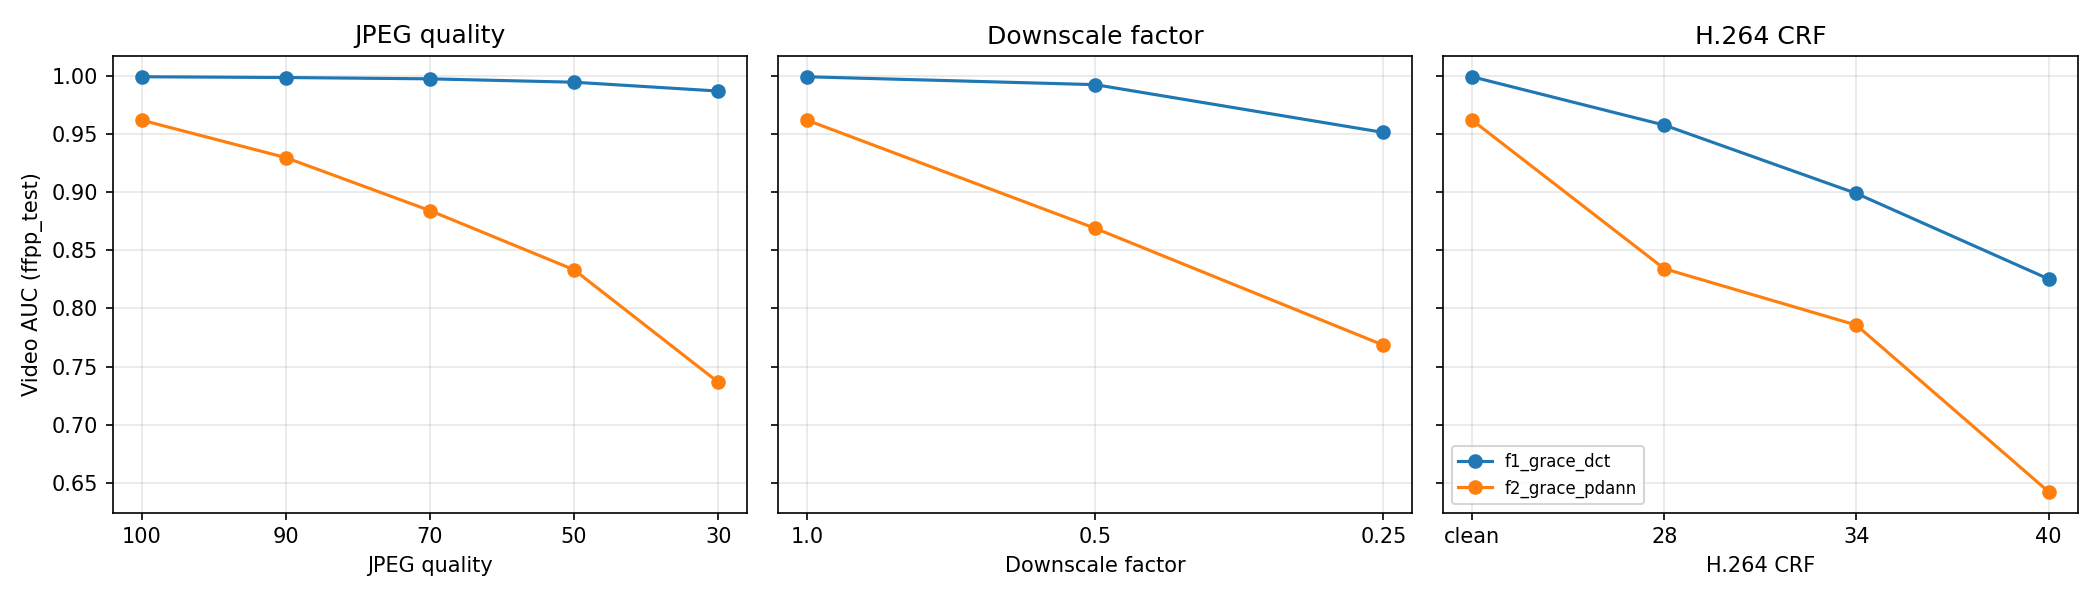
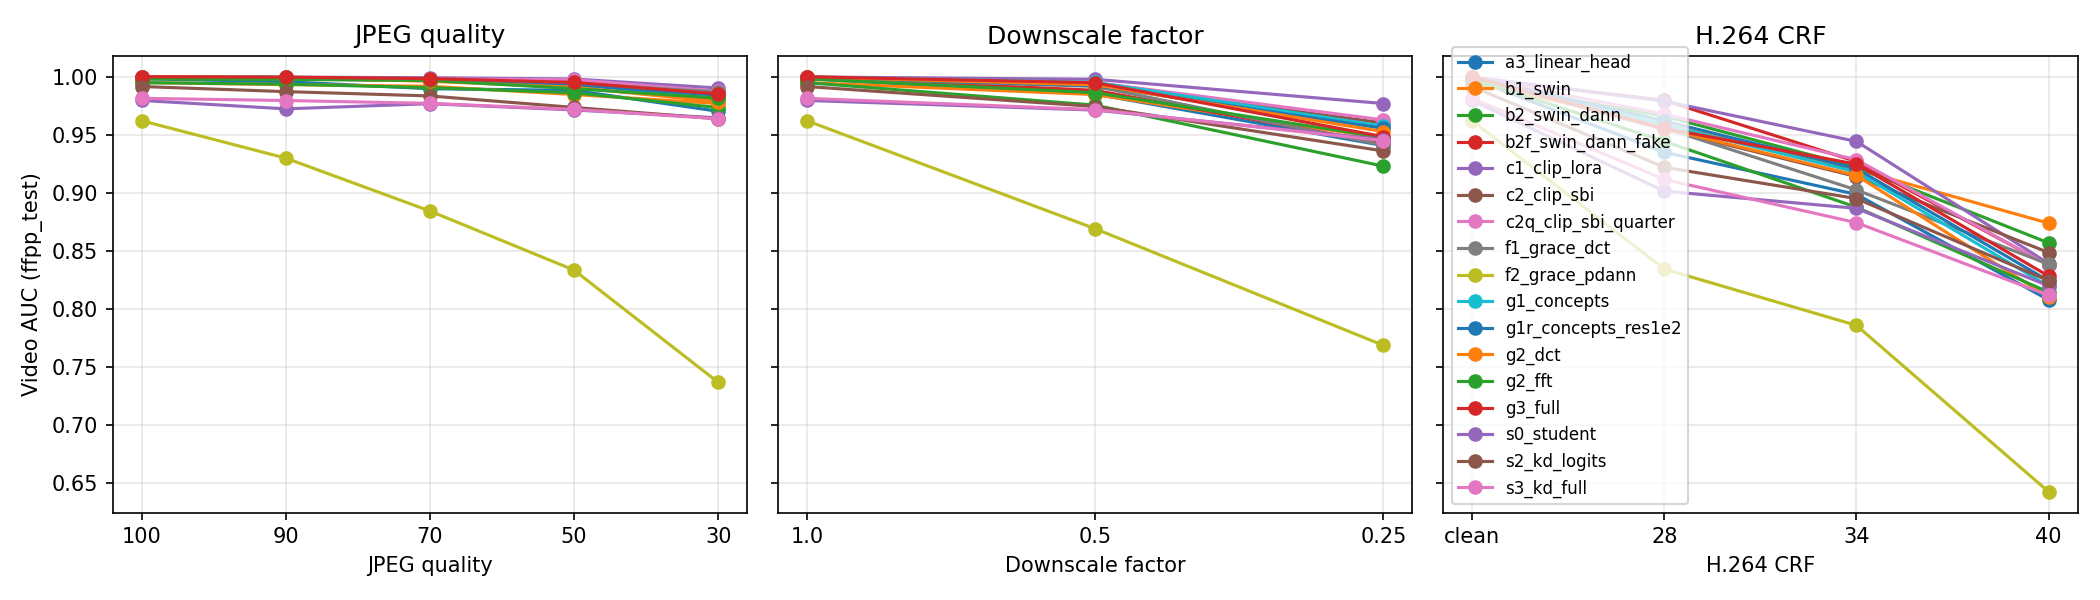
Final evaluation of all models (570 rows) + robustness figures; STATUS

diff --git a/STATUS.md b/STATUS.md
@@ -3,7 +3,7 @@
 ## Currently running
 
 - Queue runner: `scripts/start_queue.ps1` (detached; restart with `powershell -ExecutionPolicy Bypass -File scripts/start_queue.ps1`). State: `runs/_queue/state.json`, logs: `runs/_queue/<job>.log`, heartbeat: `runs/_queue/heartbeat.txt`.
-- GPU job: `final_eval_all` (started 02:31), then app check (r2), app check, final evaluation of all models, tables, summary, release; agreement, benchmark, calibration, explanations, final seeds 1/2), then teacher cache + students S0/S2/S3 from the final teacher, ONNX export, benchmark, calibration, explanations, app check, final eval + tables; then fillers (see queue.yaml).
+- GPU job: `app_check_r2` (started 05:26), then app check, final evaluation of all models, tables, summary, release; agreement, benchmark, calibration, explanations, final seeds 1/2), then teacher cache + students S0/S2/S3 from the final teacher, ONNX export, benchmark, calibration, explanations, app check, final eval + tables; then fillers (see queue.yaml).
 - Watch live: `Get-Content runs\_queue\<job>.log -Wait -Tail 20` (queue: `runs\_queue\runner.log`).
 - B1 epoch time with the GPU to itself: ~4 min (198 img/s).
 
@@ -155,3 +155,4 @@ See `splits/counts.md` for the full table.
 - 2026-11-19 02:13 Agreement r2: with both maps taken at the teacher's top concept, map IoU is still low and S3 is not above S0 (S3 0.13-0.16, S0 0.15-0.18; two independent random top-10% masks give about 0.05). S3 agrees more on which concept is top (FF++ clean 0.54 vs 0.45) and on the concept ranking (Spearman 0.79 vs 0.64). Report: distillation transfers *what* the teacher sees (concept scores) better than *where* (map location); a likely cause is the student's 7x7 map vs the teacher's 16x16 grid. Explanation figure re-drawn with the final-teacher labels.
 - 2026-11-19 02:31 Explanation metrics (`results/explain_metrics.csv`; F1 = final teacher, the script's internal 'G3' label renamed). **Localisation is a clear win**: F1 region maps hit the true edited region in 94% of SBI test images (pointing game; mask IoU 0.38) vs B1 Grad-CAM 16% (0.05), C1 rollout 1% (0.02), random 25% (0.07); S3 c1 map 73% vs F1 c1 52%. **Faithfulness is weak**: deletion AUC (lower = better) F1 0.98, S3 0.92, random 0.91, B1 Grad-CAM 0.70; insertion (higher = better) S3 0.93, random 0.90, F1 0.90, B1 0.87. On correctly flagged fakes F1's probability stays near 1 when its top-map pixels are removed: the decision is spread over the face (top concept is usually 'full face'), and the removal itself may add blend-like edges. Concept intervention: switching off the top concept lowers the fake probability 5x more than switching off a random one (F1 0.054 vs 0.011; S3 0.022 vs 0.005), small in absolute terms because probabilities are saturated. Report both: the maps say *where* the manipulation is, but removing that region alone does not flip the decision. app_check failed: under run_snapshot the app looked for `release/` inside the frozen code copy. Fixed (`app/app.py` reads data from GRACE_REPO_ROOT, as the other scripts do); re-queued as `app_check_r2`.
 - 2026-11-19 02:45 App preview restarted with the final teacher F1 (Deep) and the ONNX student (Quick). Smoke test: Deep: FF++ fake 0.92 Likely fake, FF++ real 0.14 Likely real; Quick: fake 0.94 Likely fake, **real 0.53 Inconclusive**. Diagnosis: the ONNX export is faithful (0.294 vs PyTorch 0.283 on the dataset crops of that video); calibration (T 1.66) lifts it to 0.35; the app re-detects and re-aligns faces in a video made of already-cropped faces, a crop shift worth about +0.18 that the student does not absorb but the teacher does. Change: the app now opens in Deep mode, with a note that Quick is faster but less reliable. Report as a student limitation (sensitive to crop framing).
+- 2026-11-19 05:26 **Final evaluation done** (`results/robustness.csv`, 570 rows: 17 models, seeds 42 + 1 where trained, clean + 9 degradations x 3 test splits; figures `results/fig_robustness_*.png`). Clean video AUC, FF++ / DFD / Celeb-DF (interim list): F1 final teacher 0.999 / 0.949 +- 0.002 / 0.896 +- 0.020 (2 seeds); G2-DCT 1.000 / 0.974 / 0.922 (best single run); C1 1.000 / 0.943 / 0.936 (best Celeb-DF); B1 0.995 / 0.910 / 0.899; S3 0.981 +- 0.005 / 0.851 +- 0.004 / 0.801 +- 0.031 (2 seeds); S2 0.991 / 0.869 / 0.810; S0 0.979 / 0.836 / 0.778. Students trained with input degradation score higher on jpeg/downscaled Celeb-DF than on clean (S3 s1: clean 0.779, jpeg:70 0.856). Celeb-DF numbers stay 'interim' until the official test list is confirmed (Needs a human). App check (r2) started.
